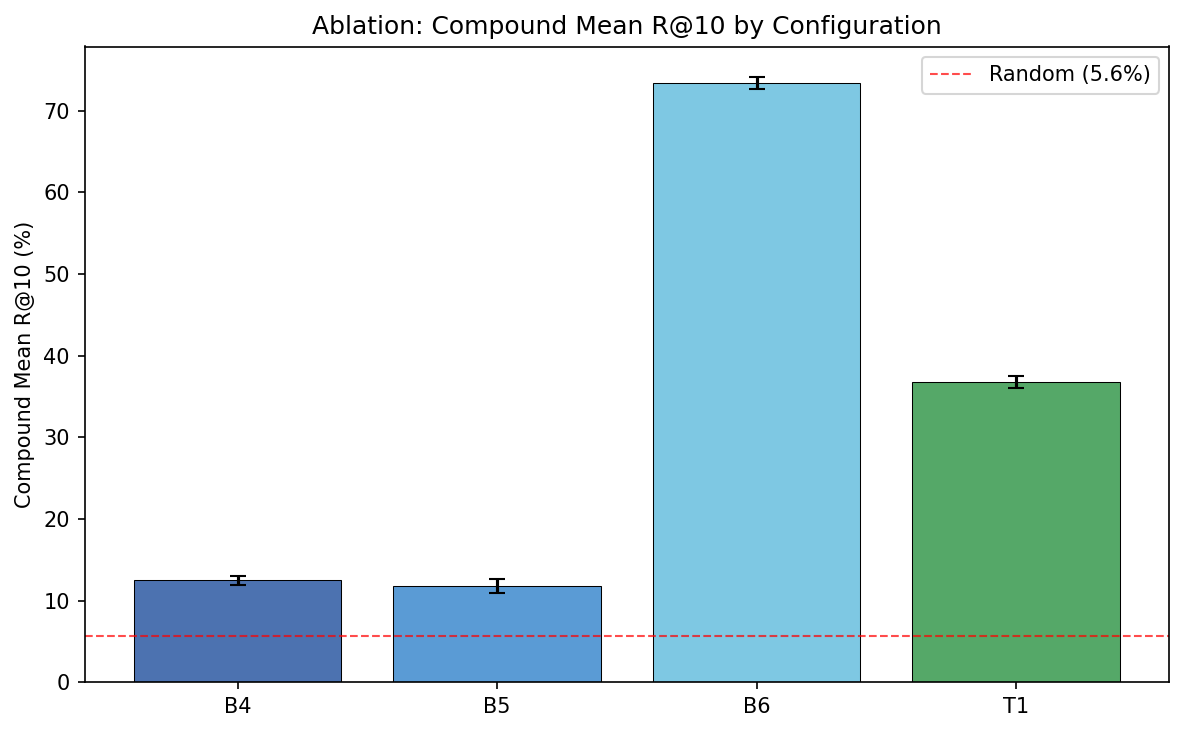
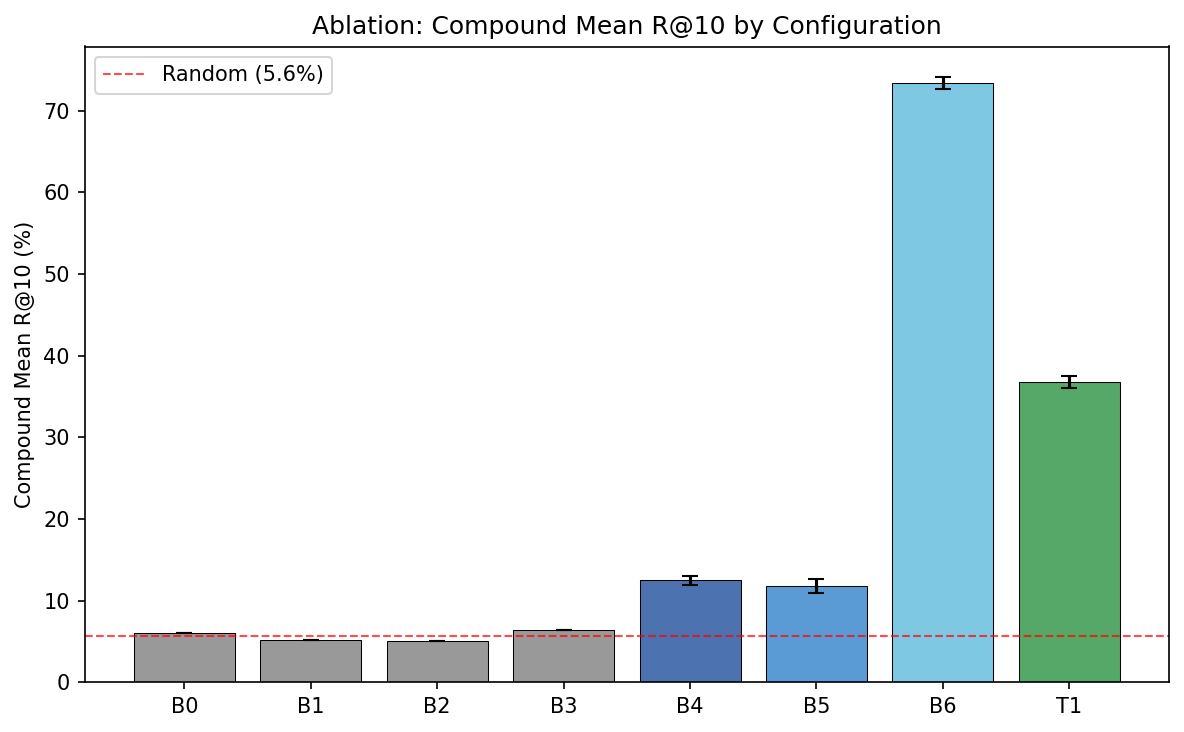
docs: Phase 3 complete — 24/24 runs with B0-B3 baselines, remove Drive backup
- Added B0-B3 baseline results to ablation_runs.jsonl (24 lines total)
- Regenerated summary CSV, LaTeX, and barplot with all 8 configs
- Removed Google Drive backup/restore cells (rely on git for results)
- Simplified Cell 1 back to clone/pull + install only

Changed region(s): [[0.0938, 0.0601, 0.9688, 0.9918], [0.125, 0.0601, 0.2812, 0.1202], [0.3438, 0.9617, 0.375, 0.9918]]

diff --git a/results/ablation_comparison.tex b/results/ablation_comparison.tex
@@ -6,6 +6,10 @@
 \toprule
 Config & compound mean R@10 & $p$-value & Sig. \\
 \midrule
+B0 & 6.0 & --- &  \\
+B1 & 5.2 & --- &  \\
+B2 & 5.1 & --- &  \\
+B3 & 6.4 & --- &  \\
 B4 & 12.5 $\pm$ 0.5 & 5.62e-11 & *** \\
 B5 & 11.8 $\pm$ 0.9 & 4.61e-11 & *** \\
 B6 & 73.4 $\pm$ 0.8 & 9.45e-13 & *** \\
